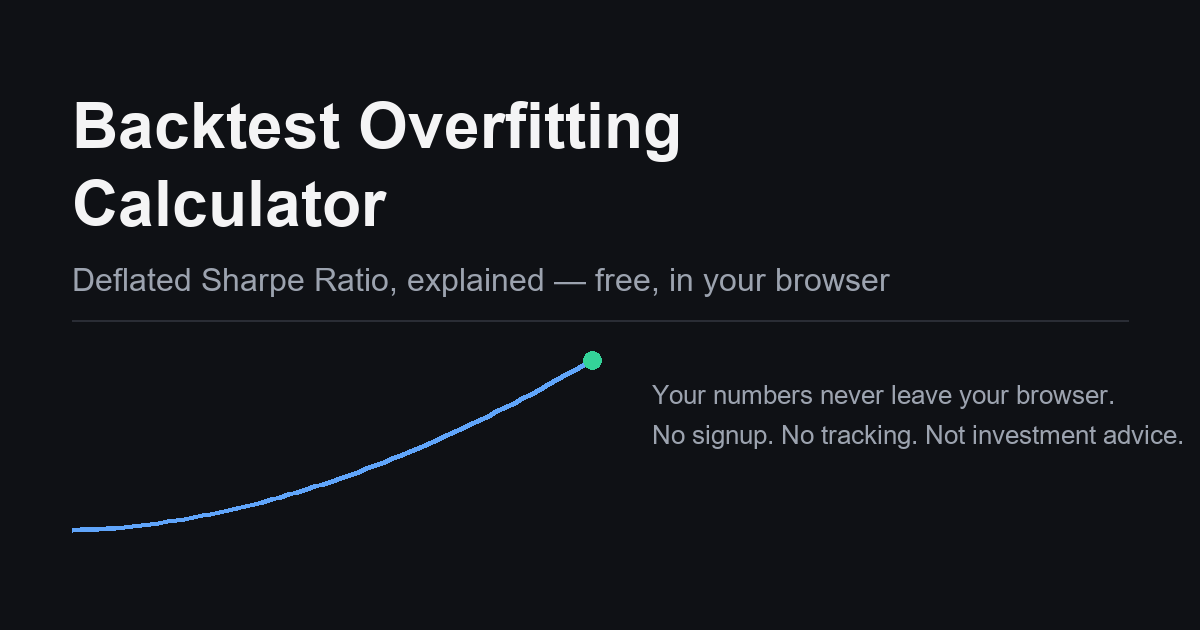
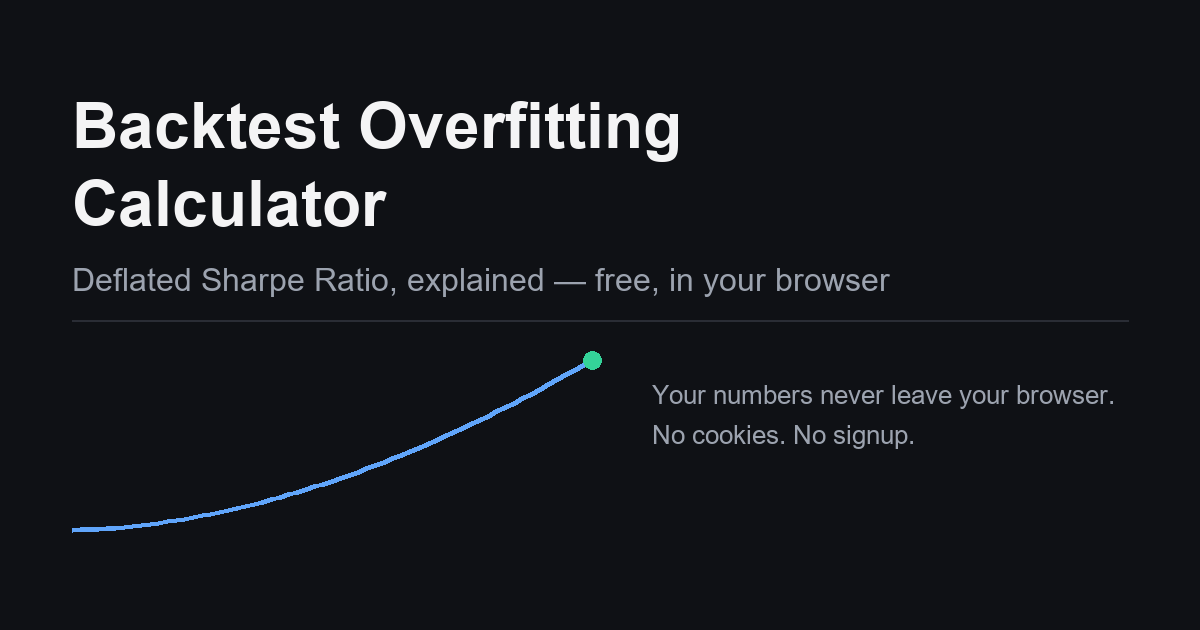
Disclose Cloudflare Web Analytics in privacy copy
Cloudflare Web Analytics (cookieless, anonymous page-view counting)
is now enabled, so the "not tracked" claim was no longer accurate.
Footer now says calculator inputs are still never sent to a server or
stored, and separately discloses the anonymous page-view counting.
Regenerated og-image.png with the same wording change.

Changed region(s): [[0.5858, 0.6635, 0.9867, 0.7238]]

diff --git a/src/App.tsx b/src/App.tsx
@@ -39,7 +39,7 @@ function App() {
       <footer className="app-footer">
         <p>
           Your numbers never leave your browser. All calculations run locally in JavaScript — nothing you enter is
-          sent to a server, stored, or tracked.
+          sent to a server or stored. No cookies. We only count anonymous page views (Cloudflare Web Analytics).
         </p>
       </footer>
     </div>

diff --git a/tools/gen_og_image.py b/tools/gen_og_image.py
@@ -70,7 +70,7 @@ def main() -> None:
 
     tag_lines = [
         "Your numbers never leave your browser.",
-        "No signup. No tracking. Not investment advice.",
+        "No cookies. No signup.",
     ]
     ty = 380
     for line in tag_lines:
